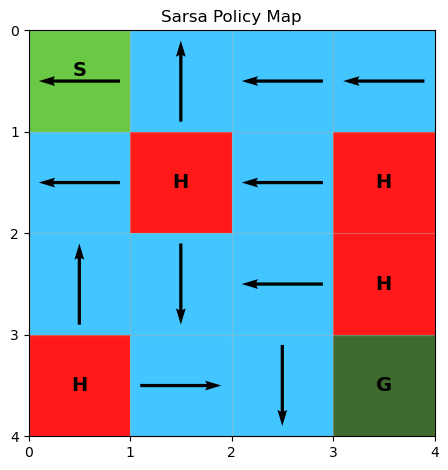
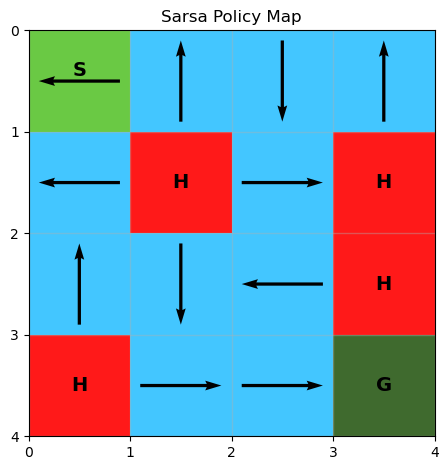
update

diff --git a/HW2_Schafer.py b/HW2_Schafer.py
@@ -18,6 +18,7 @@ print('\n')
 ## User Inputs ##
 is_slippery = True
 num_episodes = 5000
+max_steps = 100
 gamma = 0.95
 epsilon = 0.1
 alpha = 0.1
@@ -34,7 +35,7 @@ if see_MC:
                                           gamma=gamma, 
                                           epsilon=epsilon,
                                           is_slippery=is_slippery, 
-                                          max_steps=1000,
+                                          max_steps=max_steps,
                                           num_evals=num_evals
                                          )
     risk_MC, risky_states_MC, hole_probs_MC = validatePi(pi_MC)
@@ -49,7 +50,7 @@ if see_Sarsa:
                               epsilon=epsilon,
                               alpha=alpha,
                               is_slippery=is_slippery, 
-                              max_steps=1000,
+                              max_steps=max_steps,
                               num_evals=num_evals
                              )
     risk_sarsa, risky_states_sarsa, hole_probs_sarsa = validatePi(pi_sarsa)
@@ -64,7 +65,7 @@ if see_QL:
                                epsilon=epsilon,
                                alpha=alpha,
                                is_slippery=is_slippery, 
-                               max_steps=1000,
+                               max_steps=max_steps,
                                num_evals=num_evals
                               )
     risk_QL, risky_states_QL, hole_probs_QL = validatePi(pi_QL)

diff --git a/plottingFuncs.py b/plottingFuncs.py
@@ -13,7 +13,6 @@ from matplotlib.animation import FuncAnimation, PillowWriter
 import numpy as np
 import re
 from FrozenLakeMDP import *
-from MCcontrol import *
 
 ## Plot the Policy Map of an Agent ##
 def plotPolicy(pi, title, show=False):
@@ -169,6 +168,17 @@ def plotTrajectory(states, title, animate=False, fps=2):
 
 ## Plot the Evaluation Return Vs. Time Steps ##
 def plotEvalReturn(pi_sets, pi_names, dt, gamma=0.95, eval_episodes=50, map_name="4x4", is_slippery=True, max_steps=1000):
+
+    # helper function
+    def getReturns_all_visits(gamma, rewards, actions):
+        T = len(actions)
+        G_per_step = np.zeros(T, dtype=float)
+        G = 0.0
+        for t in reversed(range(T)):
+            G = rewards[t] + gamma * G
+            G_per_step[t] = G
+        return G_per_step
+
     fig = plt.figure()
 
     for alg_pis, name in zip(pi_sets, pi_names):
@@ -177,7 +187,7 @@ def plotEvalReturn(pi_sets, pi_names, dt, gamma=0.95, eval_episodes=50, map_name
             ep_returns = []
             for _ in range(eval_episodes):
                 states, actions, rewards, _ = simFrozenLakeMDP(pi=pi, map_name=map_name, is_slippery=is_slippery, max_steps=max_steps)
-                G = getFirstVisitReturns(gamma=gamma, rewards=rewards, states=states, actions=actions)
+                G = getReturns_all_visits(gamma=gamma, rewards=rewards, actions=actions)
                 ep_returns.append(float(np.nanmax(G)))
             y_vals.append(np.mean(ep_returns))
 
